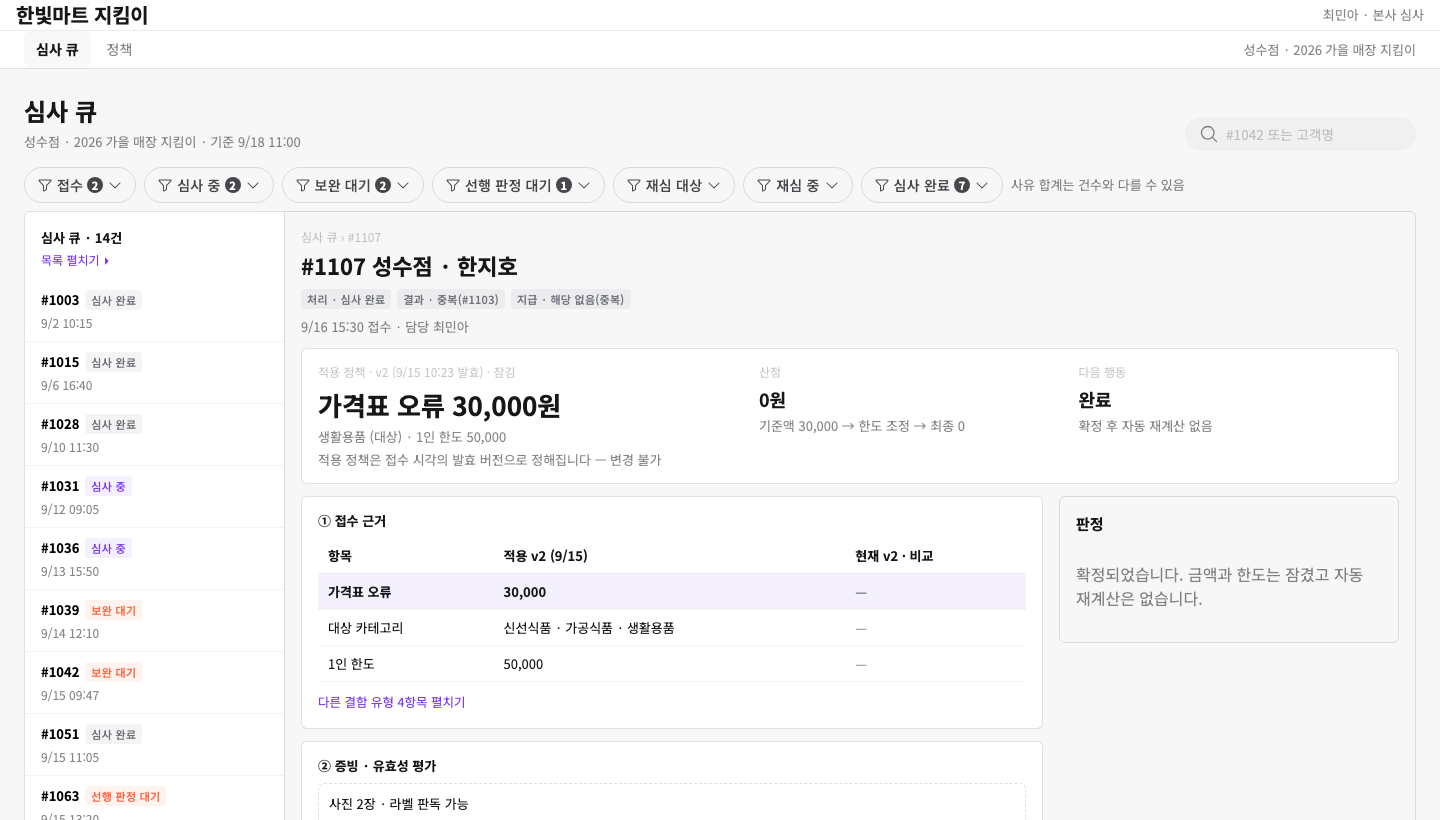
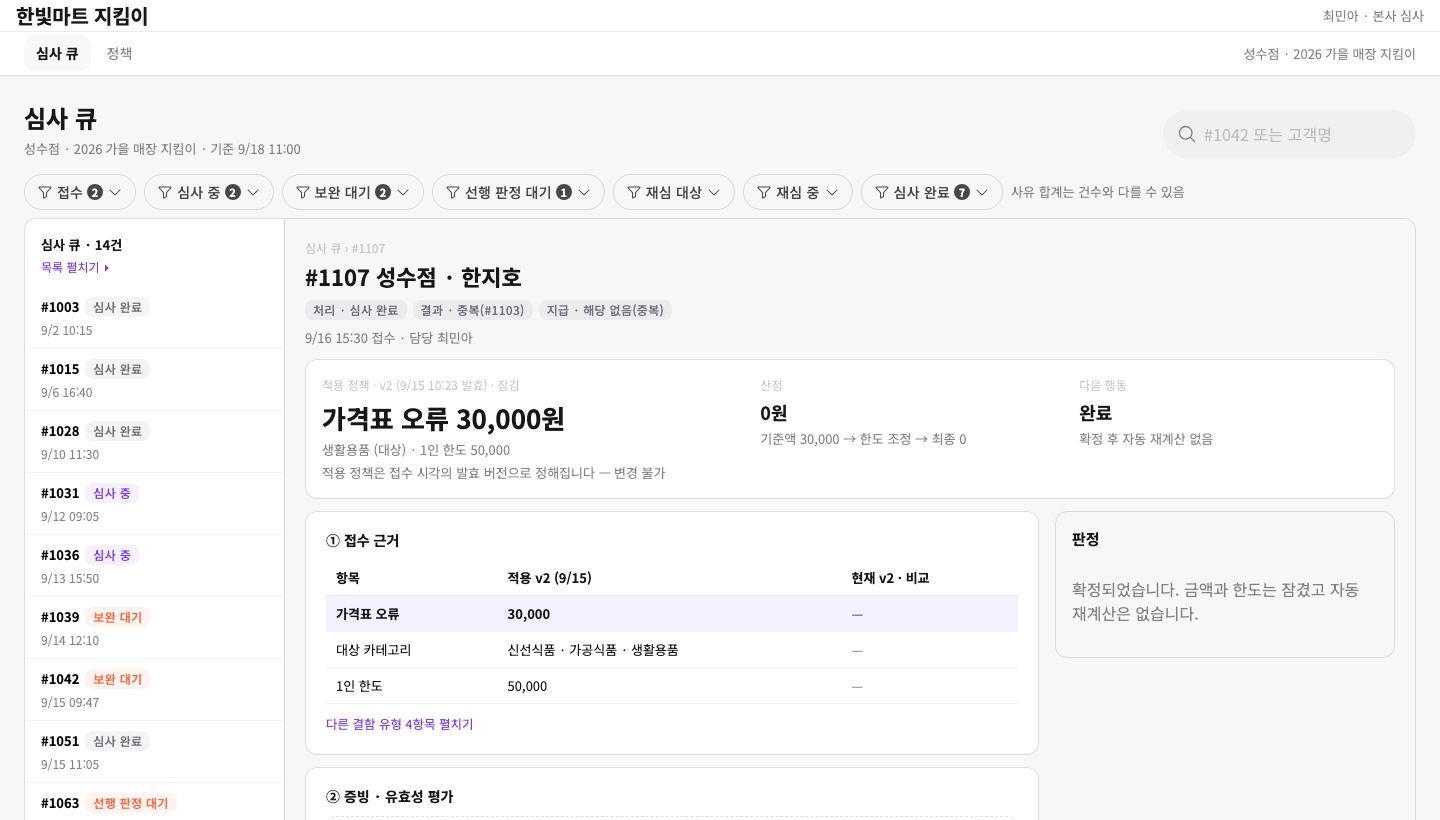
revert(app): 임의 밀도값을 걷고 Iris 값을 그대로 쓴다
밀도층은 내가 정한 수치였다. 표 행·모서리·배지·버튼·입력·셸 높이를
전부 시스템 기본값으로 되돌린다. 남긴 것은 내 컨테이너의 여백과
판정 패널 컨트롤의 폭 정렬뿐이다.

디자인 부록에서도 밀도층 절을 빼고, 컴포넌트 값은 Iris가 정한 것을
그대로 쓴다고 적었다.

diff --git a/app/src/app.css b/app/src/app.css
@@ -186,36 +186,3 @@ table.basis tr.emph td { background: var(--iris-semantic-background-status-info)
 /* 큐 정책 열 한 줄로 */
 .pol { display: inline-flex; flex-direction: row; align-items: center; gap: 6px; }
 
-/* ══ 어드민 밀도층 ══════════════════════════════════════════════
-   아이리스는 소비자 제품용 비례로 만들어져 있다(표 행 48 · 셀 15px ·
-   최소 모서리 8). 하루 수십 건을 훑고 판정하는 화면에는 성기다.
-   시스템을 바꾸지 않고 이 제품에서만 값을 조인다. 의미를 지닌 색
-   (3축 배지 톤)은 건드리지 않는다.                                */
-.app-shell {
-  --iris-radius-xs: 4px;
-  --iris-radius-sm: 6px;
-  --iris-radius-md: 6px;
-  --iris-radius-lg: 8px;
-}
-/* 표 — 행 48→38, 머리 40→34, 셀 15→13 */
-.app-shell [class*="iris-td-"] { height: 38px; padding: 0 12px; font-size: 13px; }
-.app-shell [class*="iris-th-"] { height: 34px; padding: 0 12px; font-size: 11.5px; }
-/* 배지 — 톤은 그대로, 크기만 압축 */
-.app-shell [class*="iris-badge-"] { font-size: 11px; padding: 1px 6px; border-radius: 4px; }
-/* 버튼 — 크기 체계를 눌러 없애지 않고 한 단계씩만 조인다.
-   Iris 기본은 l 48 · m 36 · s 32. 주 행동은 여전히 가장 크다. */
-.app-shell [class*="iris-button-"][class*="iris-l-"] { height: 40px; font-size: 14.5px; }
-.app-shell [class*="iris-button-"][class*="iris-m-"] { height: 34px; }
-.app-shell [class*="iris-button-"][class*="iris-s-"] { height: 30px; }
-.app-shell [class*="iris-input-"] { --iris-input-height: 34px; font-size: 13.5px; }
-/* 셸 — 상단 두 줄을 조인다 */
-.app-shell .shell > [class*="iris-top"] { height: 52px; }
-.app-shell .tabs { height: 38px; }
-/* 절 카드 여백 */
-.app-shell .rail { padding: 14px 16px 16px; }
-.app-shell .rail-label { font-size: 13px; margin-bottom: 8px; }
-.app-shell .summary { padding: 14px 16px; gap: 16px; }
-.app-shell .preview, .app-shell .list.full { padding: 16px; }
-/* 선택 행 틴트를 중립으로 — 보라가 화면에 넓게 깔리지 않게 */
-.app-shell .list tbody tr:has(.row-id.on),
-.app-shell .queue-rail-row.on { background: var(--iris-semantic-fill-alternative); }

diff --git a/docs/appendix/design-system.md b/docs/appendix/design-system.md
@@ -30,25 +30,9 @@
 
 > Figma 파일에는 별도 상세 화면으로 여는 초기 배치도 함께 남아 있습니다. 세 배치를 재서 고른 과정은 [05 화면 결정](../05-screens.md)에 있습니다.
 
-## 어드민 밀도층
-
-Iris는 소비자 제품용 비례로 만들어져 있습니다. 표 행 48, 셀 글자 15, 가장 작은 모서리가 8입니다. 하루 수십 건을 훑고 판정하는 화면에는 성깁니다. 시스템을 바꾸는 대신 이 제품에서만 값을 조였습니다.
-
-| 값 | Iris 기본 | 이 제품 |
-|---|---|---|
-| 표 행 높이 | 48 | 38 |
-| 표 머리 행 | 40 | 34 |
-| 셀 글자 | 15 | 13 |
-| 모서리 | 8 · 12 | 4 · 6 |
-| 배지 | 12px, 알약 | 11px, 모서리 4 |
-| 버튼 높이 | l 48 · m 36 · s 32 | l 40 · m 34 · s 30 |
-| 셸 | 64 + 40 | 52 + 38 |
-
-**의미를 지닌 색은 건드리지 않았습니다.** 세 축 배지의 톤은 그대로입니다. 대신 선택된 행의 강조 틴트를 중립 회색으로 바꿔 보라가 화면에 넓게 깔리지 않게 했습니다. 보라는 주 버튼과 링크에만 남습니다.
-
-이 층은 토큰 위에 덮는 재정의라 Iris 자체는 그대로입니다. 다른 제품에서 같은 시스템을 쓸 때 영향을 주지 않습니다.
-
 ## 타이포그래피
+
+컴포넌트의 크기와 간격과 모서리는 **Iris가 정한 값을 그대로 씁니다.** 이 제품용으로 따로 조정하지 않았습니다. 버튼은 48·36·32 세 단계, 표 행은 48, 모서리는 8과 12입니다.
 
 본문과 숫자 모두 Noto Sans KR입니다. **등폭 서체를 쓰지 않았습니다.** Iris에 등폭이 없어서, 숫자 정렬은 열 폭을 고정해 맞추고 값은 중간 굵기로 구분했습니다. 시스템 일관성과 등폭 중에 일관성을 골랐습니다.
 
